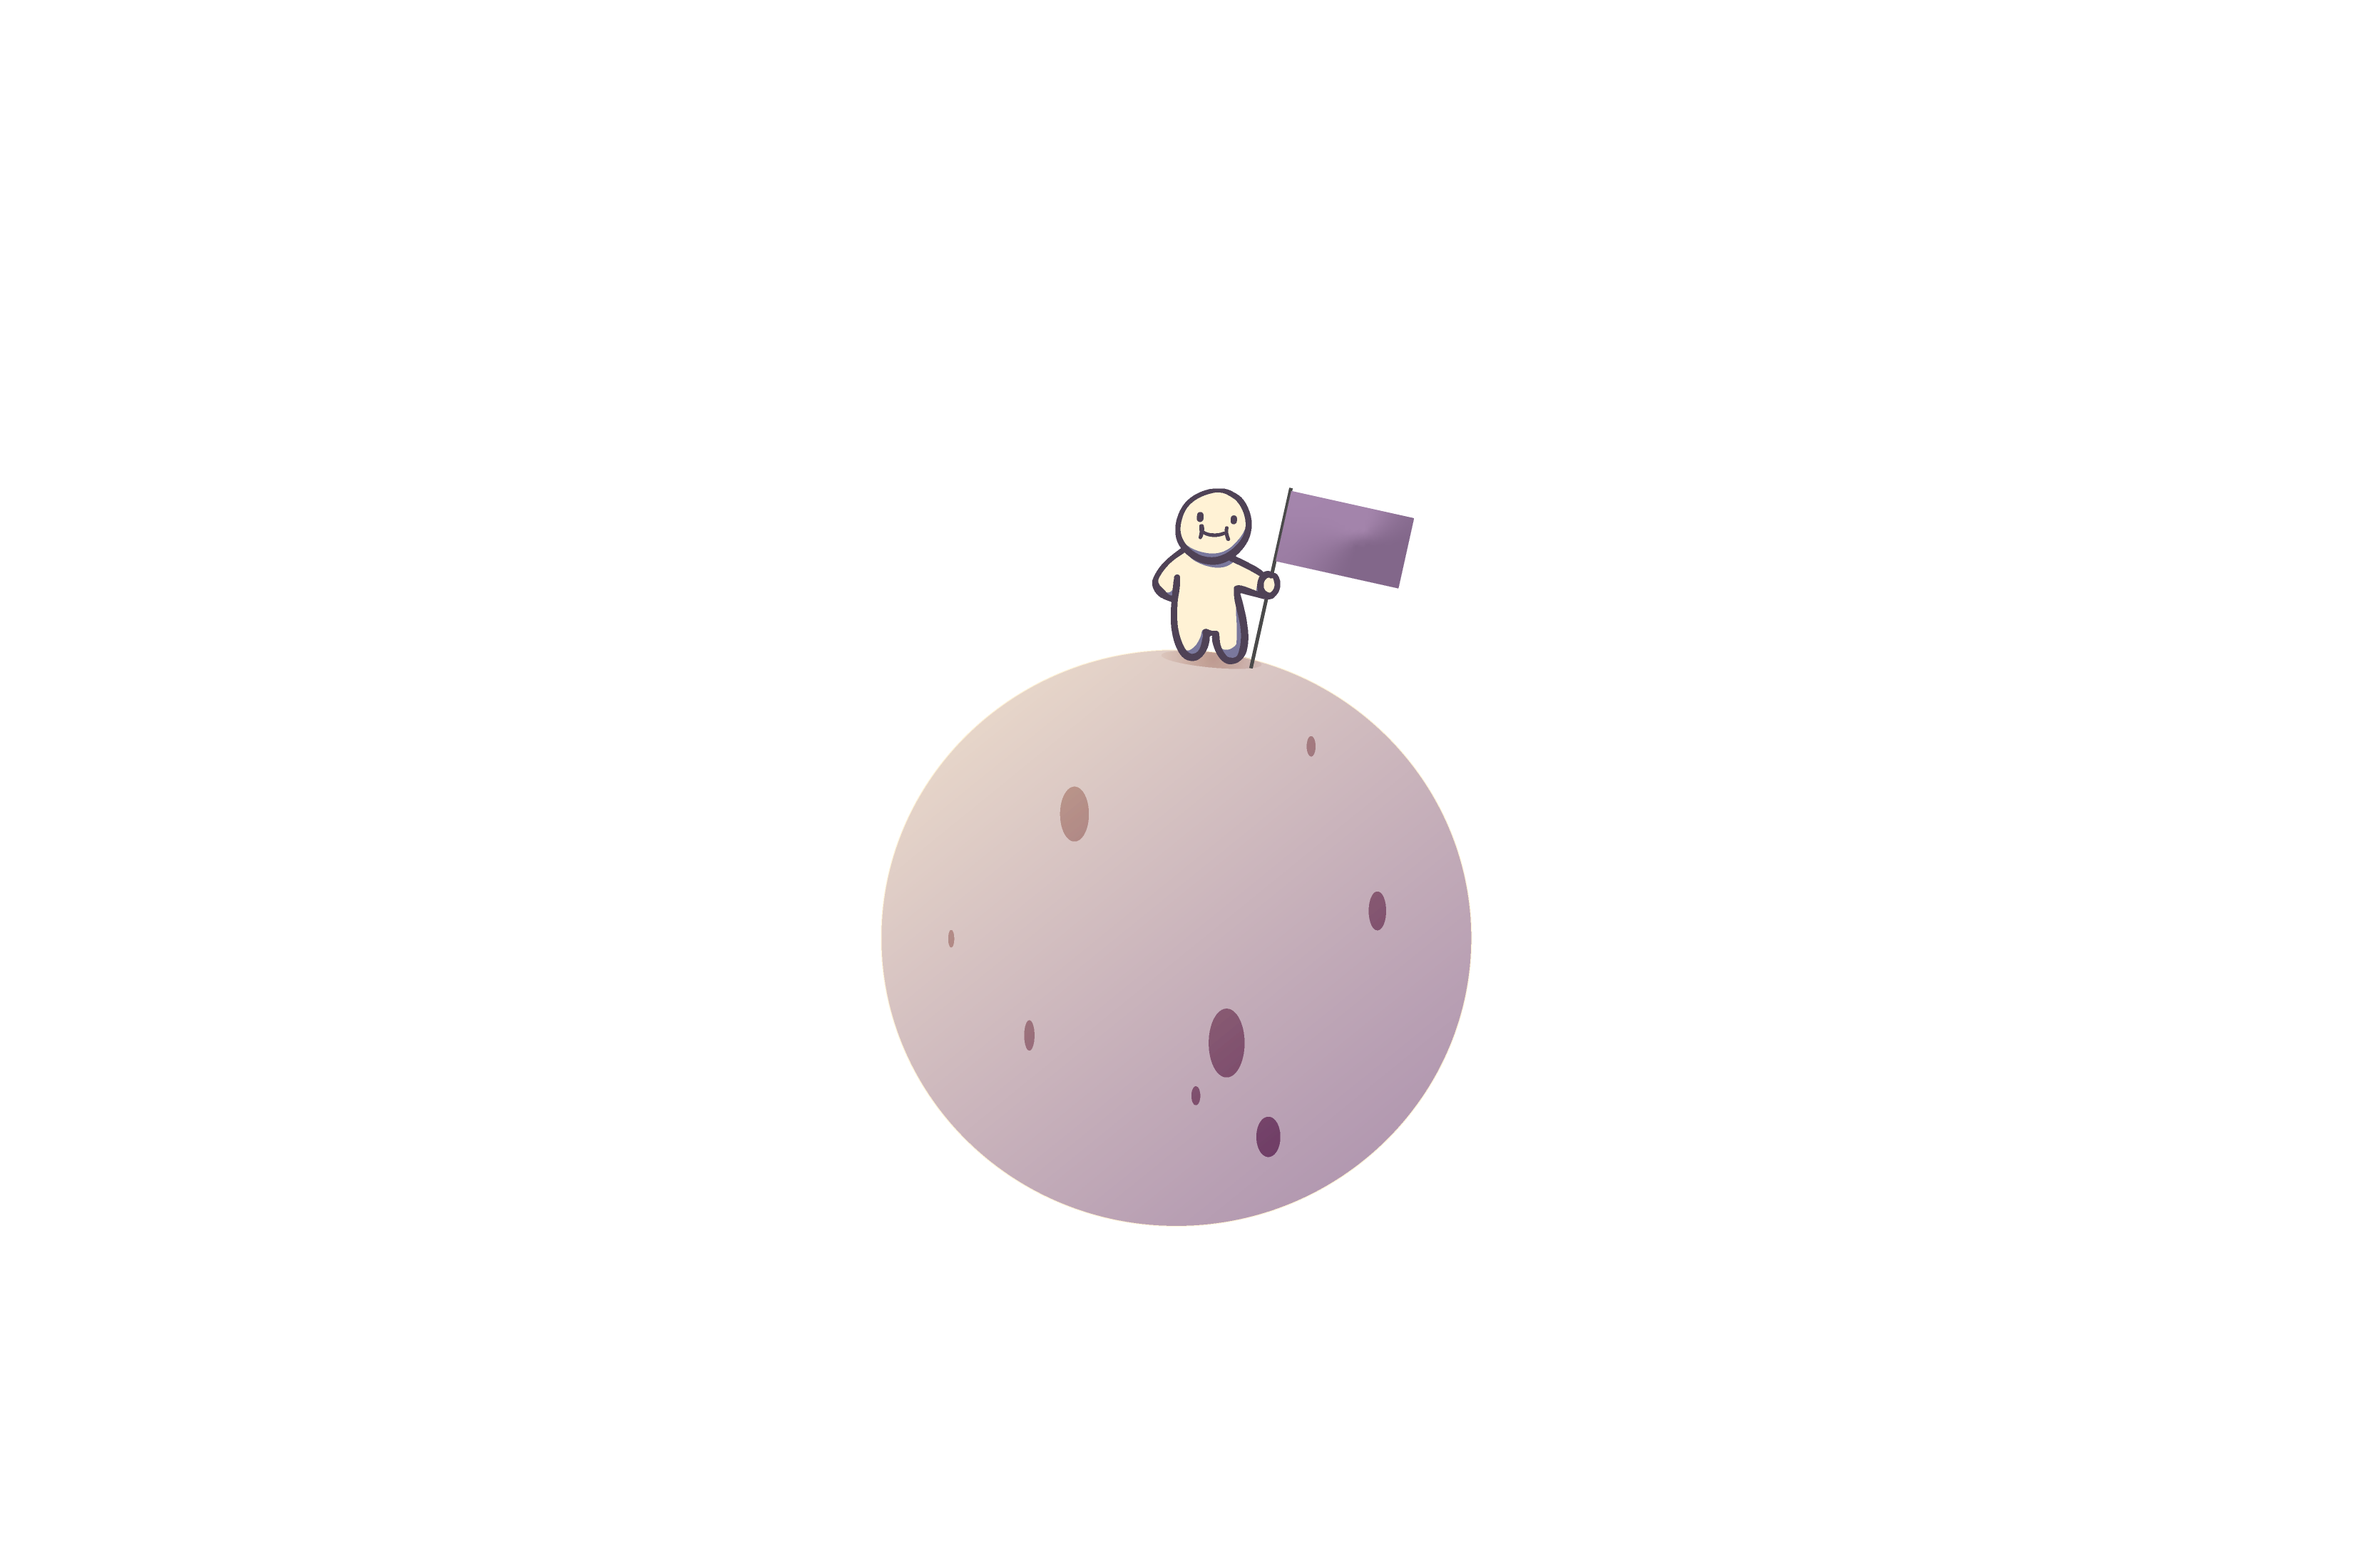
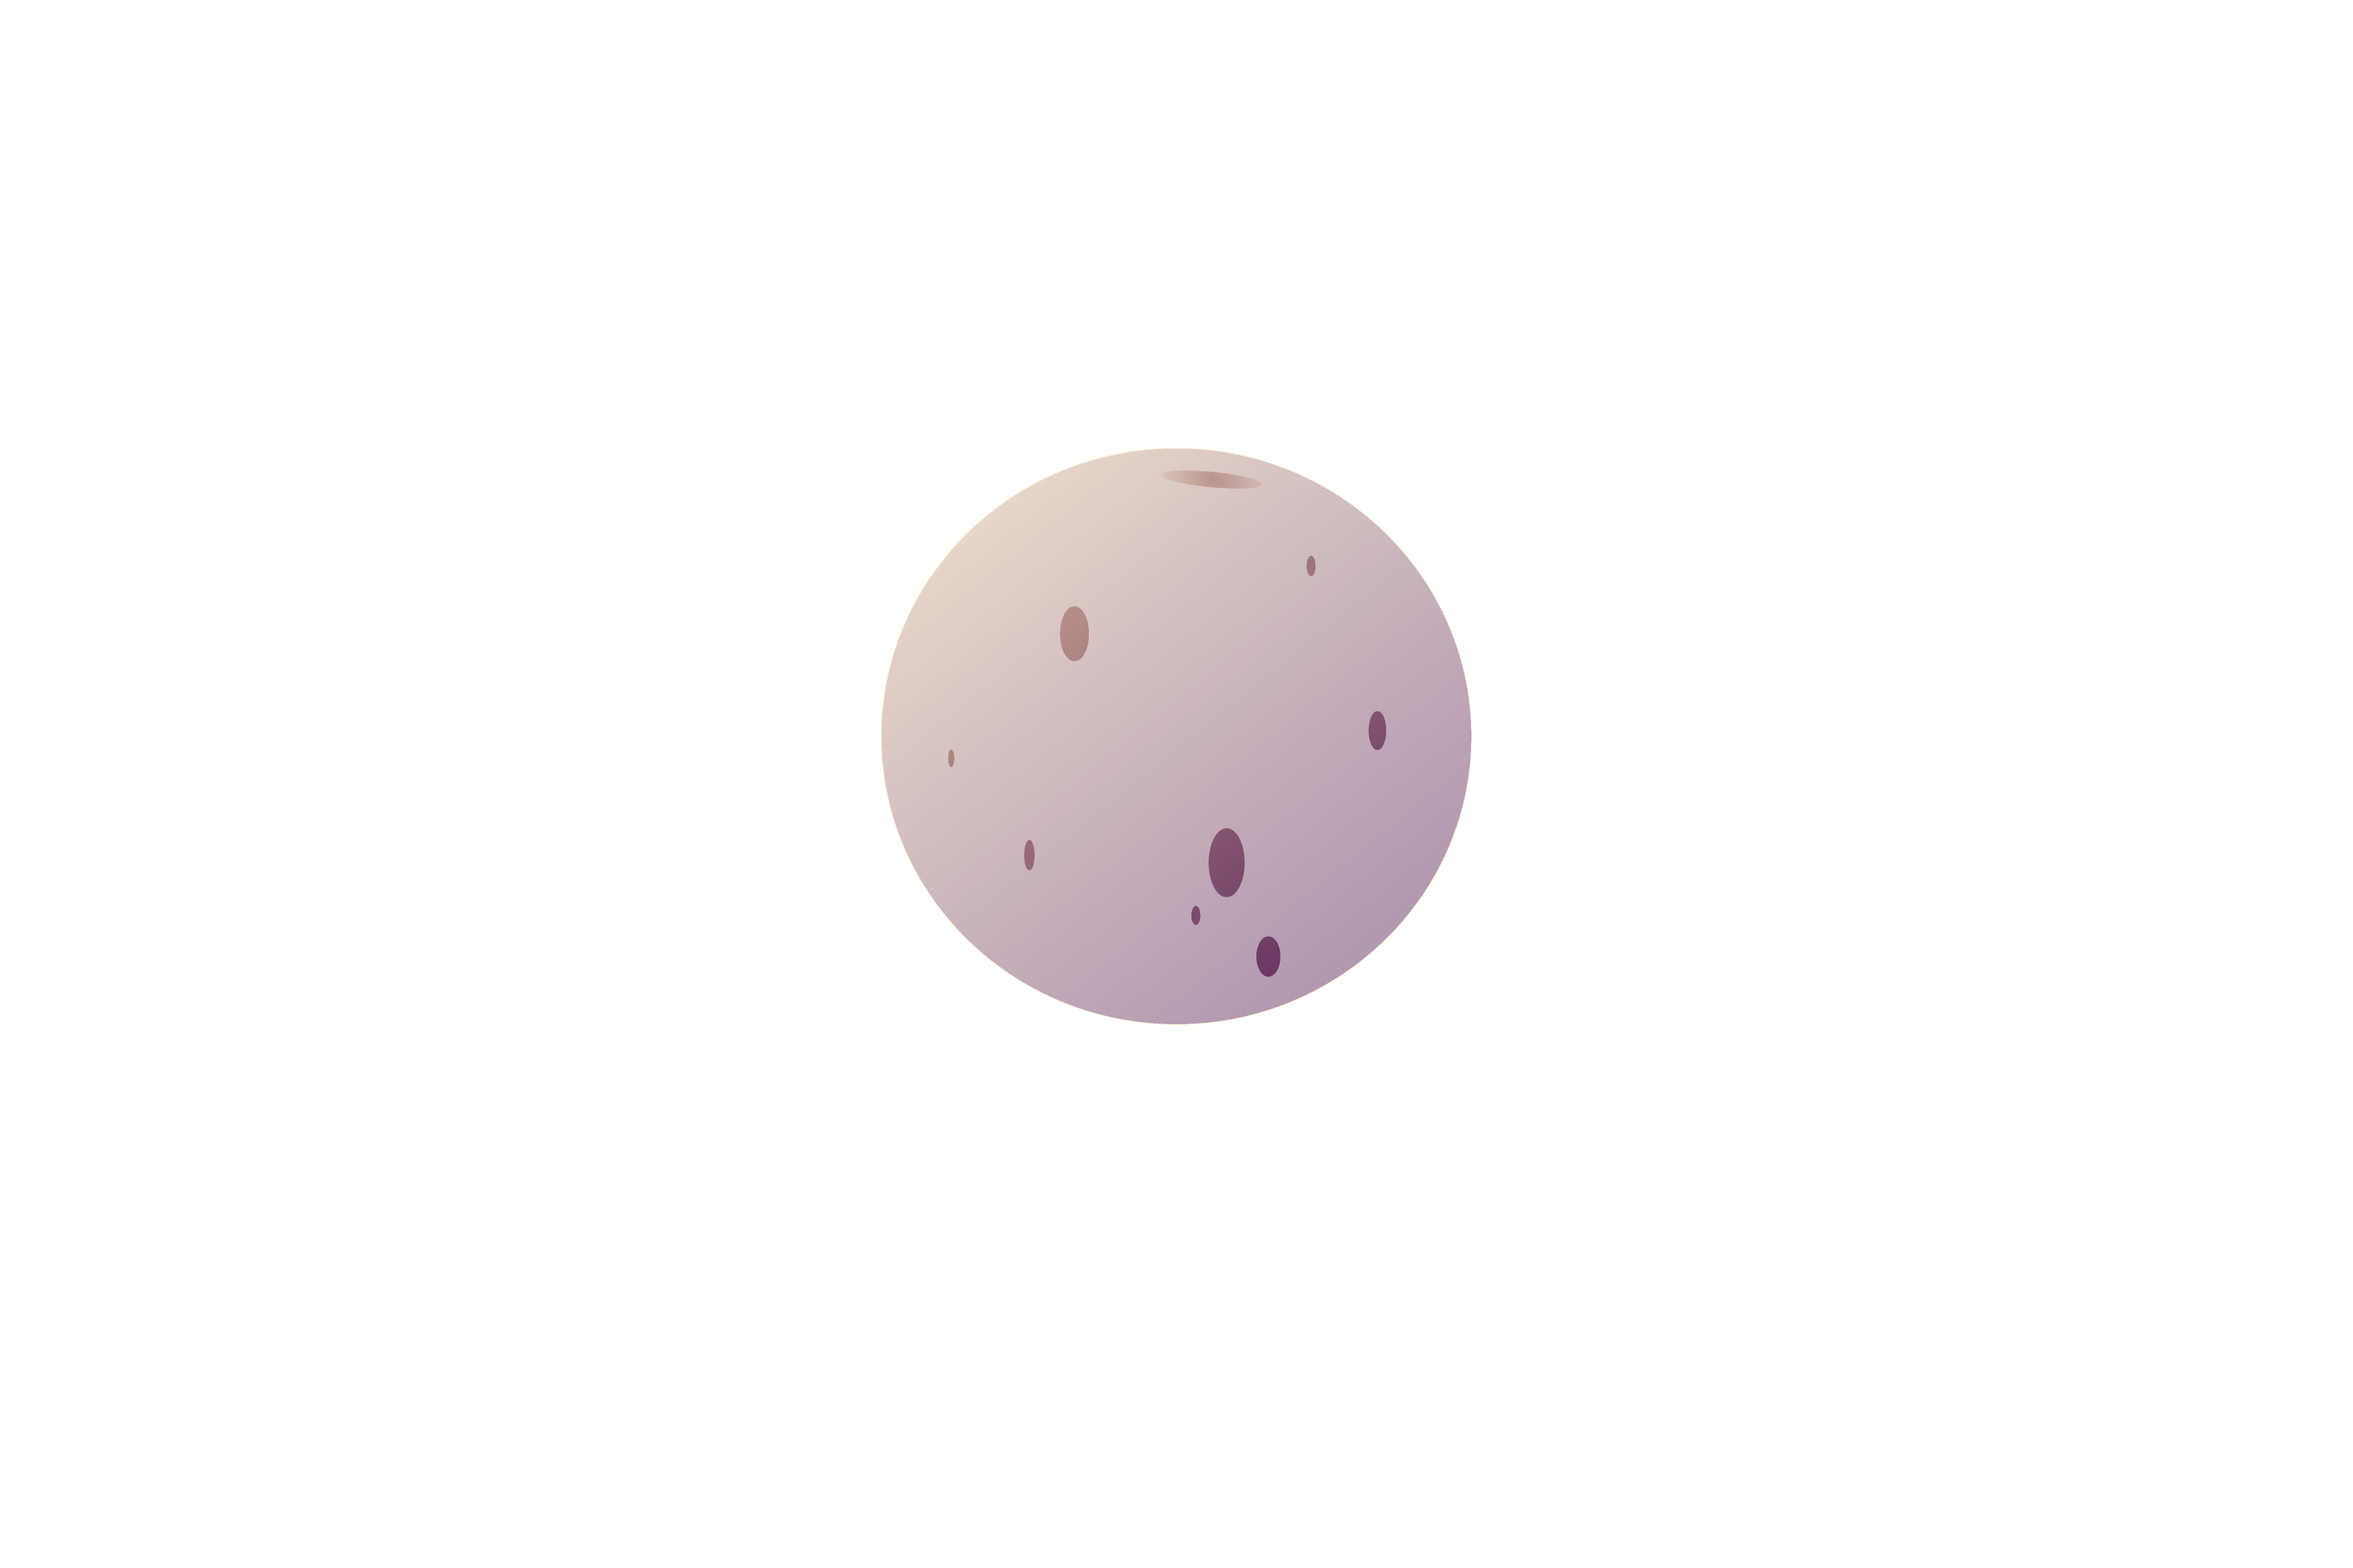
Scroll wheel animation and updated landing page

Changed region(s): [[0.3745, 0.2782, 0.6242, 0.8036], [0.4994, 0.5255, 0.5306, 0.5873], [0.437, 0.4945, 0.4682, 0.5564]]

diff --git a/portfolio/src/components/ParallaxScroll/ParallaxScroll.jsx b/portfolio/src/components/ParallaxScroll/ParallaxScroll.jsx
@@ -3,6 +3,7 @@ import { useRef, useState } from 'react'
 import { ParallaxBanner } from 'react-scroll-parallax';
 import { motion, useMotionValueEvent, useScroll, useTransform } from 'framer-motion';
 import Typewriter from 'typewriter-effect';
+import { ScrollDown } from './ScrollDown/ScrollDown'
 
 import styles from "./ParallaxScroll.module.css";
 
@@ -52,29 +53,20 @@ export const ParallaxScroll = () => {
             { image: '../../../assets/layers/1x/webp/stars1.webp', speed: -25 },
             { image: '../../../assets/layers/1x/webp/stars2.webp', speed: -18 },
             { image: '../../../assets/layers/1x/webp/stars3.webp', speed: -23 },
-            /* Headline */
-            { speed: -5,
-              translateY: [-35, -15],
-              scale: [1, 0.65],
-              children: (
-                <div className={styles.header}>
-                  <Typewriter 
-                    options={{
-                      strings: ['Hello!', 'Hi!', 'Welcome!', 'Greetings!'],
-                      autoStart: true,
-                      delay: 250,
-                      loop: true,
-                    }}
-                  />
-                </div>
-              )},
             /* Planets */
-            { image: '../../../assets/layers/1x/webp/layer4.webp', speed: -15},
-            { image: '../../../assets/layers/1x/webp/layer3.webp', speed: -10},
+            { image: '../../../assets/layers/1x/layer4.png', speed: -10},
+            { image: '../../../assets/layers/1x/webp/layer3.webp', speed: -15},
             { image: '../../../assets/layers/1x/webp/layer2.webp', speed: -5},
-            { image: '../../../assets/layers/1x/webp/layer1.webp', speed: -10,
-              translateY: [8, -15],
+            { image: '../../../assets/layers/1x/layer1.png', speed: -2,
               shouldAlwaysCompleteAnimation: true },
+            { children: <img src='../../../assets/layers/1x/spaceman.png' className={styles.heroImage}/>, 
+              speed:25,
+              translateY:[5,-15]},
+            { children: (
+                  <img src='../../../assets/layers/1x/tv.png' className={styles.tv}/>
+              ), 
+              speed: 20,
+              translateY:[5,-15]}
           ]}
           className={styles.banner}
         >
@@ -85,16 +77,13 @@ export const ParallaxScroll = () => {
         animate={{opacity: 1}}
         transition={{
           duration: 0.4,
-          delay: 1.5
+          delay: 2.5
         }}
         style={{
           opacity: opacity,
         }}
       >
-        <div className={styles.arrow}>
-          <span className={styles.scroll}>scroll</span>
-          <div className={styles.down_arrow}></div>
-        </div>
+        <ScrollDown className={styles.scroll}></ScrollDown>
       </motion.div>
     </div>
   );

diff --git a/portfolio/src/components/ParallaxScroll/ScrollDown/ScrollDown.module.css b/portfolio/src/components/ParallaxScroll/ScrollDown/ScrollDown.module.css
@@ -1,0 +1,111 @@
+#mouse-scroll {
+  style: block;
+}
+#mouse-scroll {
+  position: absolute;
+  margin: auto;
+  left: 50%;
+  bottom: 3%;
+  -webkit-transform: translateX(-50%);
+  z-index: 9999;
+}
+#mouse-scroll span{
+  display: block;
+  width: 10px; 
+  height: 10px;
+  -ms-transform: rotate(45deg);
+    -webkit-transform: rotate(45deg);
+       transform: rotate(45deg);
+       transform: rotate(45deg);
+  border-right: 3px solid #fff3af; 
+  border-bottom: 3px solid #fff3af;
+  margin: 0 0 0px 8px;
+}
+#mouse-scroll .mouse {
+  height: 35px;
+  width: 25px;
+  border-radius: 13px;
+  -webkit-transform: none;
+  -ms-transform: none;
+  transform: none;
+  border: 3px solid #ffffff;
+  top: 170px;
+}
+#mouse-scroll .downarrow1 {
+  margin-top: 6px;
+}
+#mouse-scroll .downarrow1, #mouse-scroll .downarrow2, #mouse-scroll .downarrow3 {
+  -webkit-animation: mouse-scroll 1s infinite; 
+    -moz-animation: mouse-scroll 1s infinite;
+}
+#mouse-scroll .downarrow1 {
+   -webkit-animation-delay: .1s; 
+   -moz-animation-delay: .1s;
+   -webkit-animation-direction: alternate;
+}
+#mouse-scroll .downarrow2 {
+  -webkit-animation-delay: .2s; 
+  -moz-animation-delay: .2s;
+  -webkit-animation-direction: alternate;
+}
+#mouse-scroll .downarrow3 {
+   -webkit-animation-delay: .3s;
+   -moz-animation-dekay: .3s;
+   -webkit-animation-direction: alternate;
+}
+#mouse-scroll .mousein {
+  height: 8px;
+  width: 4px;
+  display: block; 
+  margin: 5px 8px;
+  background: #ffffff;
+  position: relative;
+  border-radius: 2px;
+}
+#mouse-scroll .mousein {
+ -webkit-animation: animated-mouse 1.2s ease infinite;
+  -moz-animation: mouse-animated 1.2s ease infinite;
+}
+
+@-webkit-keyframes animated-mouse {
+  0% {
+    opacity: 1;
+    -webkit-transform: translateY(0);
+    -ms-transform: translateY(0);
+    transform: translateY(0);
+  }
+  50% {
+     opacity: 1;
+    -webkit-transform: translateY(6px);
+    -ms-transform: translateY(6px);
+    transform: translateY(6px);
+  }
+  100% {
+    opacity: 1;
+   -webkit-transform: translateY(0px);
+   -ms-transform: translateY(0px);
+   transform: translateY(0px);
+  } 
+}
+@-webkit-keyframes mouse-scroll {
+  0% {
+    opacity: 1;
+  }
+  50% {
+    opacity: .5;
+  }
+  100% {
+    opacity: 1;
+  } 
+}
+@keyframes mouse-scroll {
+  0% {
+    opacity: 0;
+  }
+  50% {
+    opacity: 0.5;
+  }
+  100% {
+    opacity: 1;
+  }
+}

diff --git a/portfolio/src/components/ParallaxScroll/ParallaxScroll.module.css b/portfolio/src/components/ParallaxScroll/ParallaxScroll.module.css
@@ -4,14 +4,29 @@
   height: 100vh;
 }
 
+.tvContainer {
+  position: absolute;
+  border: 1px solid blue;
+}
+
+.box {
+  position: absolute;
+  color: white;
+  border: 1px solid red;
+  top: 50%;
+  left: 25%;
+  width: 10%;
+  height: 10%;
+  transform: rotateY(75deg);
+
+}
+
 .header {
-  inset: 0;
-  padding-left: 4%;
-  justify-content: center;
-  align-items: center;
-  font-size: 125px;
+  position: absolute;
+  font-size:50px;
   color: rgb(255, 255, 255);
-  mix-blend-mode: difference;
+  z-index: 99999;
+  border: 1px solid red;
 
   /* Disable user highlight selection */
   -webkit-user-select: none; 
@@ -48,13 +63,59 @@
 }
 
 .scroll {
-  top: calc(100vh - 110px);
-  left: calc(100% - 70px);
-  position: absolute;
-  width: 0;
-  height: 35px;
-  border-radius: 2px;
-  animation: jumpInfinite 1.5s infinite;
+  height: 100%;
+  width: 100%;
+
+  border: 2px solid red;
+}
+
+.tv{
+  object-fit: cover;
+  width: 100%;
+  height: 100%;
+  z-index: 1;
+
+  animation-name: floatingtv;
+  animation-duration: 3s;
+  animation-iteration-count: infinite; 
+  animation-timing-function: ease-in-out;
+  animation-delay: 500ms;
+}
+
+@keyframes floatingtv {
+    0% {
+        transform: translate(0, 0px);
+    }
+    50% {
+        transform: translate(0, 23px);
+    }
+    100% {
+        transform: translate(0, 0px);
+    }
+}
+
+.heroImage {
+  object-fit: cover;
+  width: 100%;
+  height: 100%;
+  z-index: 1;
+
+  animation-name: floating;
+  animation-duration: 3s;
+  animation-iteration-count: infinite; 
+  animation-timing-function: ease-in-out;
+}
+
+@keyframes floating {
+    0% {
+        transform: translate(0, 0px);
+    }
+    50% {
+        transform: translate(0, 20px);
+    }
+    100% {
+        transform: translate(0, -0px);
+    }
 }
 
 @keyframes jumpInfinite {
@@ -67,4 +128,17 @@
   100% {
     margin-top: 0;
   }
+}
+
+@keyframes scroll {
+	0% {
+		transform: translateY(0);
+	}
+	30% {
+		transform: translateY(100px);
+	}
+}
+
+svg #wheel {
+	animation: scroll ease 1.5s infinite;
 }

diff --git a/portfolio/src/components/ParallaxScroll/ScrollDown/ScrollDown.jsx b/portfolio/src/components/ParallaxScroll/ScrollDown/ScrollDown.jsx
@@ -1,0 +1,18 @@
+import React from 'react'
+
+import styles from "./ScrollDown.module.css"
+
+export const ScrollDown = () => {
+  return (
+    <div id={styles["mouse-scroll"]}>
+      <div className={styles.mouse}>
+        <div className={styles.mousein}></div>
+      </div>
+      <div>
+          <span className={styles.downarrow1}></span>
+          <span className={styles.downarrow2}></span>
+          <span className={styles.downarrow3}></span>
+      </div>
+    </div>
+  )
+}
